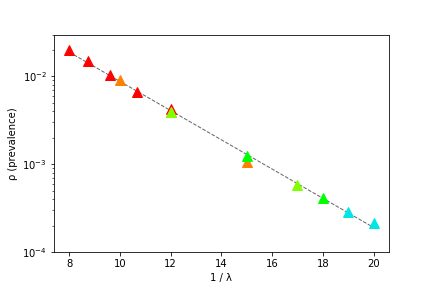
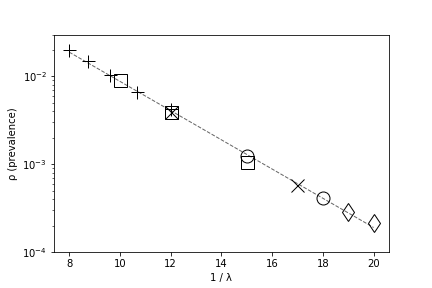
Revise final report

diff --git a/code/networks.py b/code/networks.py
@@ -10,7 +10,7 @@ import random
 def flip(p):
     if p > 1:
         raise ValueError('probability must be 0 < p < 1')
-    return np.random.random() < p
+        return np.random.random() < p
 
 
 def gen_ER_graph(n, p):

diff --git a/reports/final_report.md b/reports/final_report.md
@@ -1,20 +1,20 @@
 # Simulation of Epidemic Spreading in Scale-free Networks
-## by Seungin Lyu and Duncan Hall
+## by Seungin Lyu
 
 
 ### Abstract
 
-How prevalent is an epidemic spreading in scale-free networks? What is the survival probability of viruses over a range of time? We answer these questions by replicating an experiment by Pastor-Satorras and Vespignani [1] which involves running the susceptible-infected-susceptible (SIS) model on the Barabasi and Albert's (BA) power law graphs. We apply their methodology to a Facebook dataset [4] to further explore their model on a real-world network. We show that viruses with any spreading rate reach a steady state of prevalence on scale-free networks. We conclude that scale-free networks are prone to epidemic spreading regardless of the spreading rate.
+How do viruses in scale-free networks spread? What is the probability that a strain of virus survives over a period time? We answer these questions by replicating an experiment by Pastor-Satorras and Vespignani [1] which involves running the susceptible-infected-susceptible (SIS) model on Barabasi and Albert's (BA) power law graphs. We apply their methodology to a Facebook dataset [4] to further explore their model on a real-world network. We show that viruses with any spreading rate reach a steady state of prevalence of *ρ ~ exp(-C/λ)* on scale-free networks. We conclude that scale-free networks are prone to epidemic spreading regardless of the spreading rate because there exists a finite prevalence for all network sizes, but the prevalence is kept low for a wide range of spreading rates because the prevalence decays exponentially as the spreading rate increases.
 
 ### Replication of Pastor-Satorras and Vespignani's experiment
 
-Pastor-Satorras and Vespignani originally asked the question "why do epidemic spreading models with local connectivity contradict with the statistical observations of virus epidemics that viruses are able to pervade and spread much slow than exponentially, and saturate to a low level of persistence?" [1]. After observing and analyzing data of Virus Bulletin, they claimed that previous spreading models with local connectivity like ER graph and WS graph don't illustrate the scale-free nature of the real world networks such as the Internet. While looking for an explanation and designing a model that represents the real world, they hypothesize that running SIS model simulation on Barabasi and Albert's graph will illustrate the exponential tail of virus prevalence. To find how prevalent epidemic spreading is in scale-free graphs, we replicate the experiment that they conducted with the BA graph.
+Pastor-Satorras and Vespignani originally asked the question "Why do epidemic spreading models with local connectivity contradict with the statistical observations of virus epidemics that viruses are able to pervade and spread much slow than exponentially, and saturate to a low level of persistence?" [1]. While looking for an explanation and designing a model, they hypothesize that running SIS model simulation on Barabasi and Albert's graph will illustrate the exponential tail of virus prevalence. They claim that previous spreading models with local connectivity like ER graph and WS graph don't illustrate the scale-free nature of the real world networks such as the Internet. In this paper, we replicate the experiment that they conducted with the BA graph to find how prevalent epidemic spreading is in scale-free graphs.
 
-We use the susceptible-infected-susceptible (SIS) epidemic model as our primary means of simulation. SIS epidemic model mimics infections such as influenza that do not give immunization upon recovery from infection, so individuals become susceptible again. In SIS model, an infected node recovers with probability (rate) `σ`, and susceptible nodes are infected if at least one neighbor is infected with probability (rate) `µ`. We define the spreading rate `λ = µ/σ`. We are able to fix `σ = 1` without loss of generality [1]. Note that updating the status of all nodes is done in parallel; that is, to update the status for time `t`, only statuses of time `(t-1)` of the nodes are considered.
+We use the susceptible-infected-susceptible (SIS) epidemic model as our primary means of simulation. SIS epidemic model mimics infections such as influenza that do not give immunization upon recovery from infection, so individuals become susceptible again. In SIS model, an infected node recovers with probability (rate) *σ*, and susceptible nodes are infected if at least one neighbor is infected with probability (rate) *µ*. We define the spreading rate *λ = µ/σ*. We are able to fix *σ = 1* without loss of generality [1]. Note that updating the status of all nodes is done in parallel; that is, to update the status for time *t*, only statuses of time *(t-1)* of the nodes are considered.
 
-We define a list of terms in our experiment. The virus prevalence `'ρ' is the fraction of infected nodes at any time`. In this experiment, we examine the prevalence only when the simulation enters a steady state with an oscillating fraction of infected nodes at a constant level. We evaluate the steady-state prevalence 'ρ' by calculating the mean of infected nodes at time step t over multiple trials. Additionally, We calculate surviving probability P<sub>s</sub>(t) as `number of trials with a surviving virus at time step t / total number of trials conducted`.
+We define a list of terms in our experiment. The virus prevalence *ρ* is the fraction of infected nodes at any time. In this experiment, we examine the prevalence only when the simulation enters a steady state with an oscillating fraction of infected nodes at a constant level. We evaluate the steady-state prevalence *ρ* by calculating the mean of infected nodes at time step t over multiple trials. Additionally, we calculate surviving probability P<sub>s</sub>(t) as the number of trials with a surviving virus at time step t / total number of trials conducted.
 
-We use a BA graph generated from the NetworkX's `barabasi_albert_graph(n, k)` function. We set the number of edges to attach from a new node to existing nodes k = 3, which is equivalent to an average node degree of 6. We use the number of nodes N ranging from 10<sup>3</sup> to 8.5×10<sup>6</sup>.
+We use a BA graph generated from the NetworkX's `barabasi_albert_graph(N, k)` function. We set the number of edges to attach from a new node to existing nodes *k = 3*, which is equivalent to an average node degree of 6. We use the number of nodes N ranging from 10<sup>3</sup> to 8.5×10<sup>6</sup>.
 
 We show the results of our simulation in Figure 1 and Figure 2.
 
@@ -22,7 +22,7 @@ We show the results of our simulation in Figure 1 and Figure 2.
 | ![Figure 11](../resources/figure11.png)  ![Figure 1](../resources/figure1.png)
 
 
-*Figure 1. : (left) Pastor-Satorras and Vespignani's original figure of prevalence ρ as a function of 1/λ for different network sizes: N = 10<sup>5</sup> (+), N = 5 × 10<sup>5</sup>(◻), N = 10<sup>6</sup> (×), N = 5 × 10<sup>6</sup> (○), and N = 8.5 × 10<sup>6</sup> (◇). The full line is a fit to the form ρ ∼ exp(−C/λ) [1]; (right) We replicate the original plot with our own simulation. We use the identical semi-log axis as used in the original. Each color corresponds to a network size in the original experiment.(from red : N = 10<sup>5</sup> to sky blue : N = 8.5 × 10<sup>6</sup>). The prevalence constant C, or the slope of the linear fitting line is -0.38. We take the mean of infected nodes at t = 20.*
+*Figure 1. : (left) Pastor-Satorras and Vespignani's original figure of prevalence ρ as a function of 1/λ for different network sizes: N = 10<sup>5</sup> (+), N = 5 × 10<sup>5</sup>(◻), N = 10<sup>6</sup> (×), N = 5 × 10<sup>6</sup> (○), and N = 8.5 × 10<sup>6</sup> (◇). The line is a fit to the form ρ ∼ exp(−C/λ) [1]; (right) We replicate the original plot with our own simulation. We use the identical semi-log axis as used in the original with the same markers. The prevalence constant C, or the slope of the linear fitting line is -0.38. We take the mean of infected nodes at t = 20.*
 
 
 ![Figure 21](../resources/figure21.png) ![Figure 2](../resources/figure22.png)
@@ -31,18 +31,18 @@ We show the results of our simulation in Figure 1 and Figure 2.
 
 <br>
 
-In Figure 1, we illustrate that viruses with spreading rate ranging from 1/22 to 1/7 reach a steady state of prevalence `ρ ~ exp(-C/λ)` on the BA graph. We confirm that our replicated plot of ρ as a function of 1/λ quantitatively agrees with the original. One interpretation of the plot shown in Figure 1 is that viruses persist at a low prevalence that is always greater than 0(finite prevalence) in a BA graph regardless of its size. Another interpretation is that the virus prevalence decays inversely proportional to the sreading rete. So the faster the spreading rate is, the lower the prevalence is going to be.
+In Figure 1, we illustrate that viruses with spreading rate ranging from 1/22 to 1/7 reach a steady state of prevalence `ρ ~ exp(-C/λ)` on the BA graph. We confirm that our replicated plot of ρ as a function of 1/λ quantitatively agrees with the original. One interpretation of the plot shown in Figure 1 is that viruses persist at a low prevalence that is always greater than 0(finite prevalence) in a BA graph regardless of its size. Another interpretation is that the virus prevalence decays inversely proportional to the spreading rate. So the faster the spreading rate is, the lower the prevalence is going to be. We do observe a discrepancy in the prevalence for 1/λ = 15 for the value marked with the cirle (N = 6.25 × 10<sup>3</sup>) and the value marked with the sqaure (N = 5 × 10<sup>5</sup>). We believe that the discrepancy is an error due to the small number of trials(20) conducted for each λ value.
 
-In Figure 2, we observe that the behavior of surviving probability follows a sharp initial exponential drop, a trend which agrees with our interpretation of the prevalence graph. The virus prevalence plots in Figure 1 and the surviving probability plots in Figure 2 are compatible because, for a fixed spreading rate (λ = 0.065), the surviving probability must proportionally decrease as the network size increases to yield the same level of virus prevalence for all network sizes. While we confirm a qualitative match between the original figure and our result of the simulation, we observe a quantitative difference. The surviving probability in our plot for N < 5 × 10<sup>5</sup> decays more rapidly, roughly twice as faster than that of the original. We do observe in our simulation that running more trials results in a graph that is more quantitatively similar to the original. So this quantitative difference potentially comes from an insufficient number of trials(100,000) conducted in our simulation. However, we are unable to identify the exact cause of this discrepancy because Pastor-Satorras and Vespignani [1] did not explicitly mention the number of trials they used.
+In Figure 2, we observe that the behavior of surviving probability starts with a rapid initial drop, a trend which agrees with our interpretation of the prevalence graph. Then the suriving probability saturates to a constant linear slope that varies for different network sizes. The virus prevalence plots in Figure 1 and the surviving probability plots in Figure 2 are compatible because, for a fixed spreading rate (λ = 0.065), the surviving probability must proportionally decrease as the network size increases to yield the same level of virus prevalence for all network sizes. While we confirm a qualitative match between the original figure and our result of the simulation, we observe a quantitative difference. The surviving probability in our plot for N < 5 × 10<sup>5</sup> decays more rapidly, roughly twice as faster than that of the original. We do observe in our simulation that running more trials results in a graph that is more quantitatively similar to the original. So this quantitative difference potentially comes from an insufficient number of trials(100,000) conducted in our simulation. However, we are unable to identify the exact cause of this discrepancy because Pastor-Satorras and Vespignani [1] did not explicitly mention the number of trials they used.
 
 
 ### Going Beyond: SIS model simulation on Facebook network
 
-To extend Pastor-Satorras and Vespignani's experiment beyond the specific BA graph, we apply the same implementation of the SIS model simulation to a Facebook network with 88234 edges and 4039 nodes. Assuming that the Facebook graph is similar to the BA graph, we expect the same `ρ ~ exp(-C/λ)` prevalance plot as shown in Figure 1.
+Having replicated Pastor-Satorras and Vespignani's original experiment, we believe that the specific BA graph with k = 3 does not represent all scale-free netoworks. If a similar experiment with a real-world graph shows similar results, then the model becomes more convincing. Therefore, we apply the same implementation of the SIS model simulation to a Facebook network data with 88234 edges and 4039 nodes from SNAP[4]. Assuming that the Facebook graph is similar to the BA graph, we expect the same `ρ ~ exp(-C/λ)` prevalance plot as shown in Figure 1.
 
 We observe that running the same simulation on the Facebook data yields the result shown in Figure 3. We confirm that the result qualitatively matches the prevalence plot shown in Figure 1 but quantitatively differs in regards to the slope of the fitting line and the prevalence level.
 
-We know from ThinkComplexity that a BA graph that resembles the Facebook dataset with 88374 edges and 4039 nodes differs greatly when we take a look at the clustering coefficients. The clustering coefficient is 0.037 for the BA graph and 0.061 for the Facebook graph [5]. Assuming that the one of the primary differences between the BA graph and the Facebook graph is the clustering coefficient, we can infer that the difference in the clustering coefficient contributes to the quantitative discrepancy shown in Figure 3. Even if the assumption is not completely true, we can still assume that the clustering coefficient is one of the major factors that contribute to the higher prevalence level and the relatively low prevalence constant C compared to the BA graph.
+We know that a BA graph that resembles the Facebook dataset with 88374 edges and 4039 nodes differs greatly when we take a look at the clustering coefficients. The clustering coefficient is 0.037 for the BA graph and 0.061 for the Facebook graph [5]. Assuming that the one of the primary differences between the BA graph and the Facebook graph is the clustering coefficient, we can infer that the difference in the clustering coefficient contributes to the quantitative discrepancy shown in Figure 3. Even if the assumption is not completely true, we can still assume that the clustering coefficient is one of the major factors that contribute to the higher prevalence level and the relatively low prevalence constant C compared to the BA graph.
 
 With higher prevalence level, viruses can stay more prevalent in the Facebook network with more infected nodes than in the BA graph. With a smaller value of the prevalence constant C, the change in spreading rate has less effect on exponentially decaying prevalence. So viruses can pervade in the Facebook network more dominantly than in the BA graph only if we consider this model valid for the Facebook network.
 
@@ -50,12 +50,17 @@ With higher prevalence level, viruses can stay more prevalent in the Facebook ne
 
 ![Figure 3](https://github.com/SeunginLyu/EpidemicSpreading/blob/master/resources/figure3.png)
 
-*Figure 3. We run the SIS model simulation on the Facebook data provided by SNAP. We run 100 trials for each spreading rate until time step 50. The prevalence constant C or the slope of the linear fitting line is 0.11 which is 0.27 less than that of the BA graph in Figure 1. The prevalence level is also significantly higher by a factor of roughly 100.*
+*Figure 3. We run the SIS model simulation on the Facebook data provided by SNAP. We run 100 trials for each spreading rate until time step 50. The prevalence constant C or the slope of the linear fitting line is (-0.11) which differs from (-0.38) of Figure 1. The prevalence level is also substantially higher by a factor of roughly 100.*
 
 
 ### Conclusion
 
-We conclude that scale-free networks are prone to epidemic spreading regardless of the spreading rate because there always exists a finite prevalence that is greater than zero. However, the epidemic prevalence decays exponentially as the spreading rate increases, so the epidemic prevalence is low for a wide range of spreading rate. In other words, only a small number of nodes are going to be infected at a moment for most spreading rates, but the epidemic will defeintely continue pervade. We also identified a potential positive correlation between the epidemic prevalence and the clustering coefficient of a network by investigating the SIS model on the Facebook network. For future works, we suggest you further explore the topic of network clustering to verify the relationship between the epidemic prevalence and the clustering coefficient of a network.
+We conclude that scale-free networks are prone to epidemic spreading regardless of the spreading rate because there always exists a finite prevalence that is greater than zero. However, the epidemic prevalence decays exponentially as the spreading rate increases, so the epidemic prevalence is low for a wide range of spreading rate. In other words, only a small number of nodes are going to be infected at a moment for most spreading rates, but the epidemic will continue to pervade. We also identified a potential positive correlation between the epidemic prevalence and the clustering coefficient of a network by investigating the SIS model on the Facebook network. For future work, we suggest further exploring the topic of network clustering to verify the relationship between the epidemic prevalence and the clustering coefficient of a network.
+
+
+### Acknowledgment
+
+Duncan Hall contributed to the implementation of the python code that runs the simulation.
 
 ### Bibliography
 

diff --git a/reports/final_report_draft.md b/reports/final_report_draft.md
@@ -1,0 +1,88 @@
+# Simulation of Epidemic Spreading in Scale-free Networks
+## by Seungin Lyu and Duncan Hall
+
+
+### Abstract
+
+How prevalent is an epidemic spreading in scale-free networks? What is the survival probability of viruses over a range of time? We answer these questions by replicating an experiment by Pastor-Satorras and Vespignani [1] which involves running the susceptible-infected-susceptible (SIS) model on the Barabasi and Albert's (BA) power law graphs. We apply their methodology to a Facebook dataset [4] to further explore their model on a real-world network. We show that viruses with any spreading rate reach a steady state of prevalence on scale-free networks. We conclude that scale-free networks are prone to epidemic spreading regardless of the spreading rate.
+
+### Replication of Pastor-Satorras and Vespignani's experiment
+
+Pastor-Satorras and Vespignani originally asked the question "why do epidemic spreading models with local connectivity contradict with the statistical observations of virus epidemics that viruses are able to pervade and spread much slow than exponentially, and saturate to a low level of persistence?" [1]. After observing and analyzing data of Virus Bulletin, they claimed that previous spreading models with local connectivity like ER graph and WS graph don't illustrate the scale-free nature of the real world networks such as the Internet. While looking for an explanation and designing a model that represents the real world, they hypothesize that running SIS model simulation on Barabasi and Albert's graph will illustrate the exponential tail of virus prevalence. To find how prevalent epidemic spreading is in scale-free graphs, we replicate the experiment that they conducted with the BA graph.
+
+We use the susceptible-infected-susceptible (SIS) epidemic model as our primary means of simulation. SIS epidemic model mimics infections such as influenza that do not give immunization upon recovery from infection, so individuals become susceptible again. In SIS model, an infected node recovers with probability (rate) `σ`, and susceptible nodes are infected if at least one neighbor is infected with probability (rate) `µ`. We define the spreading rate `λ = µ/σ`. We are able to fix `σ = 1` without loss of generality [1]. Note that updating the status of all nodes is done in parallel; that is, to update the status for time `t`, only statuses of time `(t-1)` of the nodes are considered.
+
+We define a list of terms in our experiment. The virus prevalence `'ρ' is the fraction of infected nodes at any time`. In this experiment, we examine the prevalence only when the simulation enters a steady state with an oscillating fraction of infected nodes at a constant level. We evaluate the steady-state prevalence 'ρ' by calculating the mean of infected nodes at time step t over multiple trials. Additionally, We calculate surviving probability P<sub>s</sub>(t) as `number of trials with a surviving virus at time step t / total number of trials conducted`.
+
+We use a BA graph generated from the NetworkX's `barabasi_albert_graph(n, k)` function. We set the number of edges to attach from a new node to existing nodes k = 3, which is equivalent to an average node degree of 6. We use the number of nodes N ranging from 10<sup>3</sup> to 8.5×10<sup>6</sup>.
+
+We show the results of our simulation in Figure 1 and Figure 2.
+
+
+| ![Figure 11](../resources/figure11.png)  ![Figure 1](../resources/figure1.png)
+
+
+*Figure 1. : (left) Pastor-Satorras and Vespignani's original figure of prevalence ρ as a function of 1/λ for different network sizes: N = 10<sup>5</sup> (+), N = 5 × 10<sup>5</sup>(◻), N = 10<sup>6</sup> (×), N = 5 × 10<sup>6</sup> (○), and N = 8.5 × 10<sup>6</sup> (◇). The full line is a fit to the form ρ ∼ exp(−C/λ) [1]; (right) We replicate the original plot with our own simulation. We use the identical semi-log axis as used in the original. Each color corresponds to a network size in the original experiment.(from red : N = 10<sup>5</sup> to sky blue : N = 8.5 × 10<sup>6</sup>). The prevalence constant C, or the slope of the linear fitting line is -0.38. We take the mean of infected nodes at t = 20.*
+
+
+![Figure 21](../resources/figure21.png) ![Figure 2](../resources/figure22.png)
+*Figure 2. : (left) Pastor-Satorras and Vespignani's original figure of the surviving probability P<sub>s</sub>(t) for a spreading rate λ = 0.065 in scale-free networks of size N = 5 × 10<sup>5</sup> (◻), N = 2.5 × 10<sup>4</sup> (◇), N = 1.25 × 10<sup>4</sup> (△), and N = 6.25 × 10<sup>3</sup> (○) [1]; (right). We replicate the original plot with our own simulation. Note we run the simulation for 50 time steps and run 100,000 trials in total. While the horizontal steady state for N = 5 × 10<sup>5</sup> matches that of the original plot, we observe quantitative differences for all other network sizes.*
+
+
+<br>
+
+In Figure 1, we illustrate that viruses with spreading rate ranging from 1/22 to 1/7 reach a steady state of prevalence `ρ ~ exp(-C/λ)` on the BA graph. We confirm that our replicated plot of ρ as a function of 1/λ quantitatively agrees with the original. One interpretation of the plot shown in Figure 1 is that viruses persist at a low prevalence that is always greater than 0(finite prevalence) in a BA graph regardless of its size. Another interpretation is that the virus prevalence decays inversely proportional to the sreading rete. So the faster the spreading rate is, the lower the prevalence is going to be.
+
+In Figure 2, we observe that the behavior of surviving probability follows a sharp initial exponential drop, a trend which agrees with our interpretation of the prevalence graph. The virus prevalence plots in Figure 1 and the surviving probability plots in Figure 2 are compatible because, for a fixed spreading rate (λ = 0.065), the surviving probability must proportionally decrease as the network size increases to yield the same level of virus prevalence for all network sizes. While we confirm a qualitative match between the original figure and our result of the simulation, we observe a quantitative difference. The surviving probability in our plot for N < 5 × 10<sup>5</sup> decays more rapidly, roughly twice as faster than that of the original. We do observe in our simulation that running more trials results in a graph that is more quantitatively similar to the original. So this quantitative difference potentially comes from an insufficient number of trials(100,000) conducted in our simulation. However, we are unable to identify the exact cause of this discrepancy because Pastor-Satorras and Vespignani [1] did not explicitly mention the number of trials they used.
+
+
+### Going Beyond: SIS model simulation on Facebook network
+
+To extend Pastor-Satorras and Vespignani's experiment beyond the specific BA graph, we apply the same implementation of the SIS model simulation to a Facebook network with 88234 edges and 4039 nodes. Assuming that the Facebook graph is similar to the BA graph, we expect the same `ρ ~ exp(-C/λ)` prevalance plot as shown in Figure 1.
+
+We observe that running the same simulation on the Facebook data yields the result shown in Figure 3. We confirm that the result qualitatively matches the prevalence plot shown in Figure 1 but quantitatively differs in regards to the slope of the fitting line and the prevalence level.
+
+We know from ThinkComplexity that a BA graph that resembles the Facebook dataset with 88374 edges and 4039 nodes differs greatly when we take a look at the clustering coefficients. The clustering coefficient is 0.037 for the BA graph and 0.061 for the Facebook graph [5]. Assuming that the one of the primary differences between the BA graph and the Facebook graph is the clustering coefficient, we can infer that the difference in the clustering coefficient contributes to the quantitative discrepancy shown in Figure 3. Even if the assumption is not completely true, we can still assume that the clustering coefficient is one of the major factors that contribute to the higher prevalence level and the relatively low prevalence constant C compared to the BA graph.
+
+With higher prevalence level, viruses can stay more prevalent in the Facebook network with more infected nodes than in the BA graph. With a smaller value of the prevalence constant C, the change in spreading rate has less effect on exponentially decaying prevalence. So viruses can pervade in the Facebook network more dominantly than in the BA graph only if we consider this model valid for the Facebook network.
+
+
+
+![Figure 3](https://github.com/SeunginLyu/EpidemicSpreading/blob/master/resources/figure3.png)
+
+*Figure 3. We run the SIS model simulation on the Facebook data provided by SNAP. We run 100 trials for each spreading rate until time step 50. The prevalence constant C or the slope of the linear fitting line is 0.11 which is 0.27 less than that of the BA graph in Figure 1. The prevalence level is also significantly higher by a factor of roughly 100.*
+
+
+### Conclusion
+
+We conclude that scale-free networks are prone to epidemic spreading regardless of the spreading rate because there always exists a finite prevalence that is greater than zero. However, the epidemic prevalence decays exponentially as the spreading rate increases, so the epidemic prevalence is low for a wide range of spreading rate. In other words, only a small number of nodes are going to be infected at a moment for most spreading rates, but the epidemic will defeintely continue pervade. We also identified a potential positive correlation between the epidemic prevalence and the clustering coefficient of a network by investigating the SIS model on the Facebook network. For future works, we suggest you further explore the topic of network clustering to verify the relationship between the epidemic prevalence and the clustering coefficient of a network.
+
+### Bibliography
+
+#### [1]. [Epidemic spreading in scale-free networks](https://github.com/SeunginLyu/EpidemicSpreading/blob/master/papers/epidemic_spreading_in_SF_networks.pdf)
+
+Pastor-Satorras, R., & Vespignani, A. (2001). Epidemic spreading in scale-free networks. Physical review letters, 86(14), 3200.
+
+Pastor-Satorras and Vespignani designed a model for the spreading of infections on scale-free networks. They applied the susceptible-infected-susceptible (SIS) epidemiological model on scale-free graphs (Barabasi and Albert). They believe that models with SIS applied to Euclidean lattices, ER graphs, and WS graphs aren’t completely adequate to represent the real phenomenon because the end behavior after time *t* eventually yields either complete extinction or complete prevalence of a computer virus depending on whether the effective spreading rate is greater or less than the epidemic threshold. They discover the absence of the epidemic threshold in scale-free networks and conclude that “infections can proliferate on these scale-free networks whatever spreading rates they may have.
+
+#### [2]. [Epidemic spreading in Real Networks : An Eigenvalue Viewpoint](https://github.com/SeunginLyu/EpidemicSpreading/blob/master/papers/epidemic_threshols_real_networks_eignevalue.pdf)
+
+Wang, Y., Chakrabarti, D., Wang, C., & Faloutsos, C. (2003, October). Epidemic spreading in real networks: An eigenvalue viewpoint. In Reliable Distributed Systems, 2003. Proceedings. 22nd International Symposium on (pp. 25-34). IEEE.
+
+Wang, Yang, and Chenxi Wang proposed a ‘general’ epidemic threshold condition that applies to arbitrary graphs and proves that the epidemic threshold is closely related to the largest eigenvalue of its adjacency matrix under reasonable approximations. They point out that the model proposed by Pastor-Satorras and Vespignani is only limited to the BA graph and only works heavily under the assumption that gamma = 3 when *P(k) = k^(-gamma)* (*P(k)* is the probability that a node has *k* links). They validate their epidemic spreading model on both homogeneous graphs like ER graph and power-law scale-free graphs like the BA graph. They conclude that their threshold condition holds for arbitrary graphs by validating their model through extensive experiments on real and synthesized graphs.
+
+
+#### [3]. [Epidemic Thresholds in Real Networks](https://github.com/SeunginLyu/EpidemicSpreading/blob/master/papers/epidemic_thresholds_real_netowkrs.pdf)
+
+Chakrabarti, D., Wang, Y., Wang, C., Leskovec, J., & Faloutsos, C. (2008). Epidemic thresholds in real networks. ACM Transactions on Information and System Security (TISSEC), 10(4), 1.
+Chicago
+
+They present a new analytic model called NLDS(nonlinear dynamic system) that makes no assumptions about the network topology and show that their model performs as well or better than the previous models that are targeted specifically to fit certain special case graphs like ER, WS, and BA graphs. This model is an improved version of <i>Epidemic Spreading in Real Networks: An Eigenvalue Viewpoint</i> (written five years later by almost the same group of the author). They conclude that their threshold condition can be used to design new network topologies that are more resistant to viruses.
+
+
+#### [4]. [SNAP Facebook Dataset](https://snap.stanford.edu/data/egonets-Facebook.html)
+Leskovec, Jure, Stanford University(2012)
+[https://snap.stanford.edu/data/egonets-Facebook.html](https://snap.stanford.edu/data/egonets-Facebook.html)
+
+#### [5]. Downey, A. B. (2016). Think complexity 2e. " O'Reilly Media, Inc.".
+[http://greenteapress.com/complexity2/html/index.html](https://snap.stanford.edu/data/egonets-Facebook.html)
